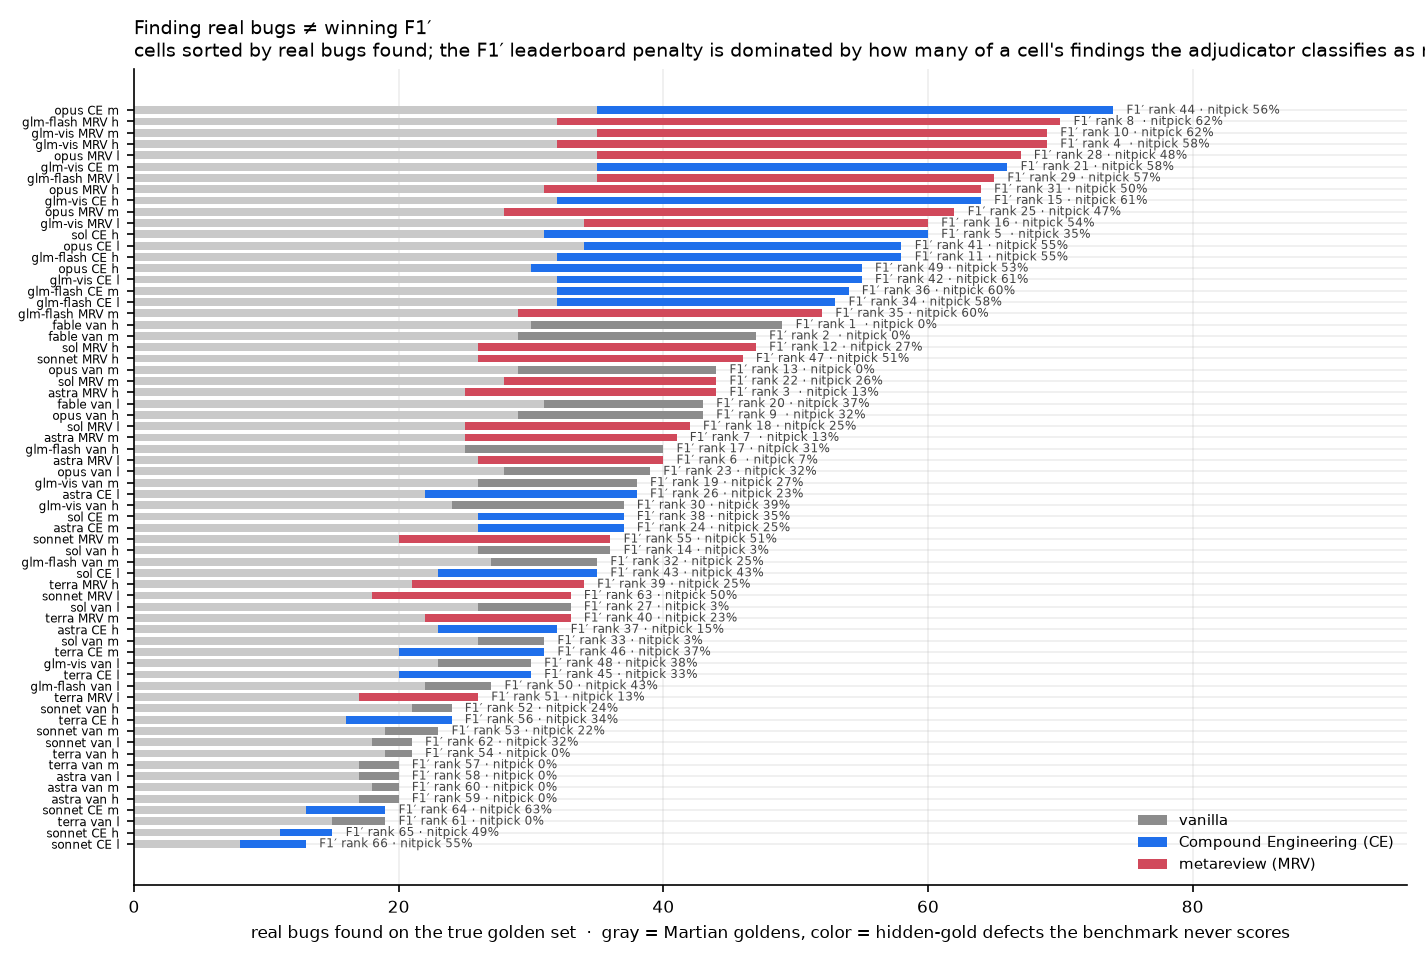
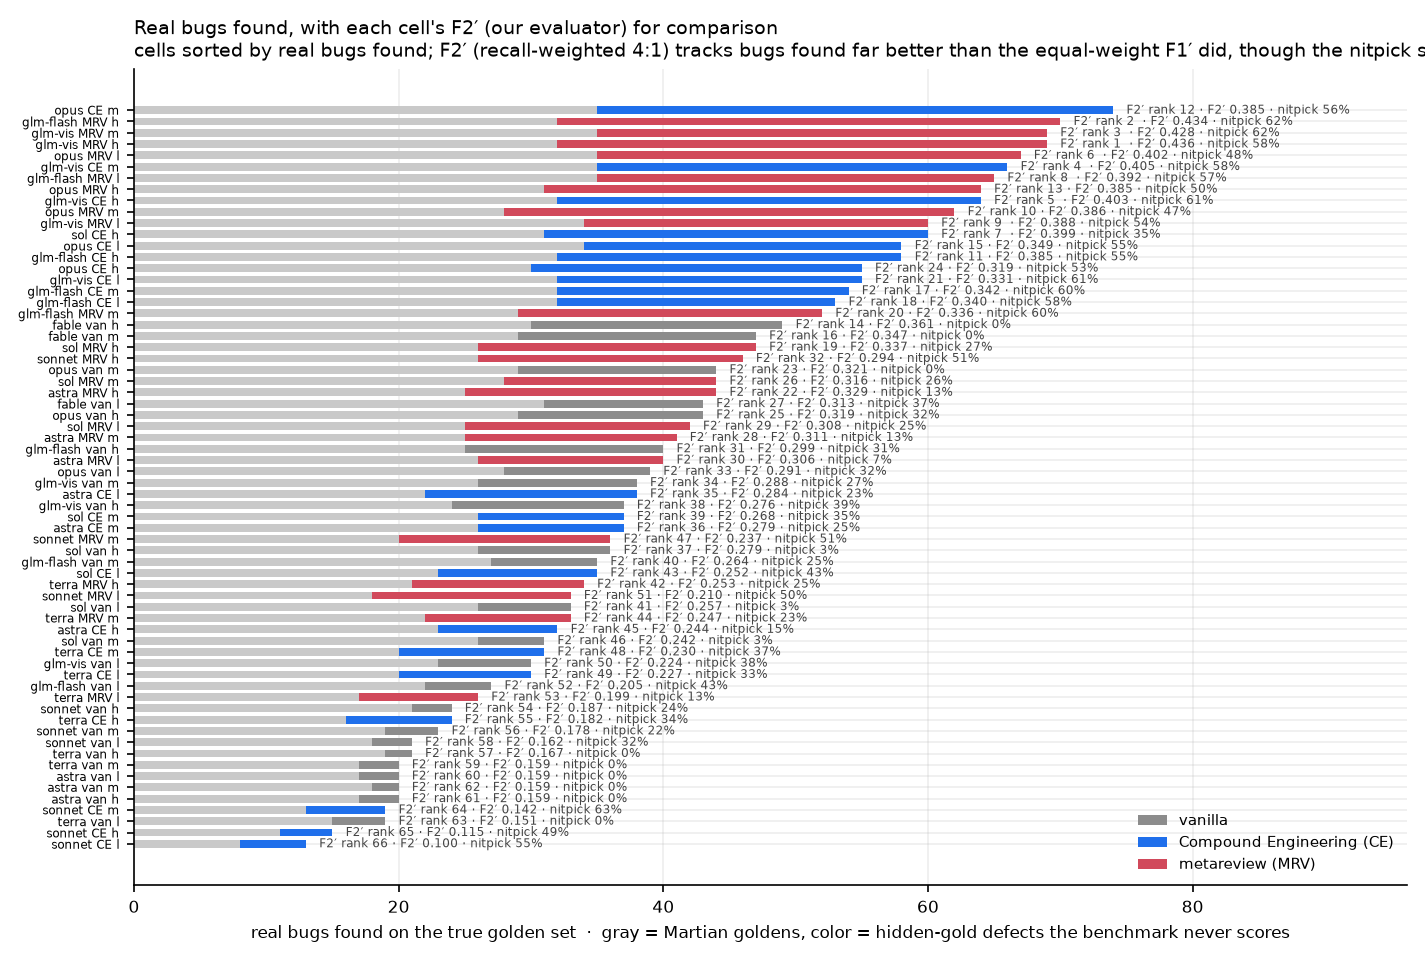
fix: defects-found chart needed F2p in its bar records (KeyError)

Changed region(s): [[0.2779, 0.0938, 0.9263, 0.9062], [0.3088, 0.0, 1.0, 0.0625], [0.0926, 0.0, 0.3088, 0.0625]]

diff --git a/tools/final_report_figures_true_gold.py b/tools/final_report_figures_true_gold.py
@@ -161,7 +161,7 @@ for k, c in CELLS.items():
         continue
     G, Dp, H, I = f
     bars.append({"k": k, "label": f"{M_SHORT.get(m, m)} {FW_SHORT[fw]} {e[:1]}", "fw": fw,
-                 "gold": G, "def": Dp, "F1p": c["F1p"], "recall": c["recall"],
+                 "gold": G, "def": Dp, "F2p": c["F2p"], "F1p": c["F1p"], "recall": c["recall"],
                  "nit": I / max(1, G + Dp + H + I)})
 bars.sort(key=lambda b: -(b["gold"] + b["def"]))
 fig, ax = plt.subplots(figsize=(9.5, 6.4))
